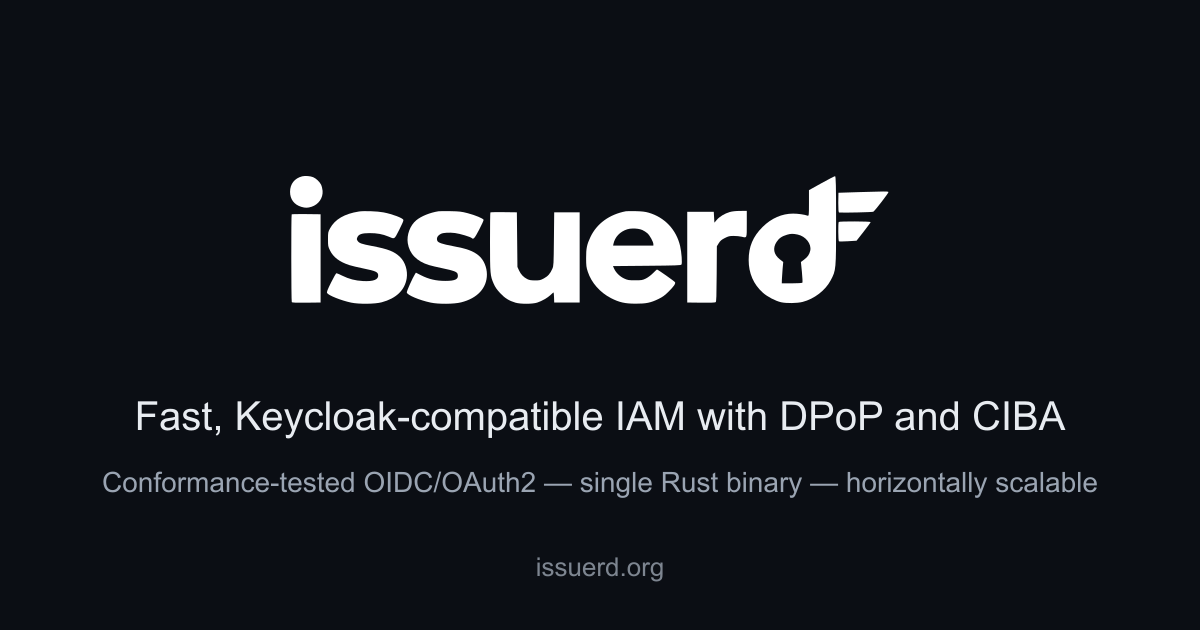
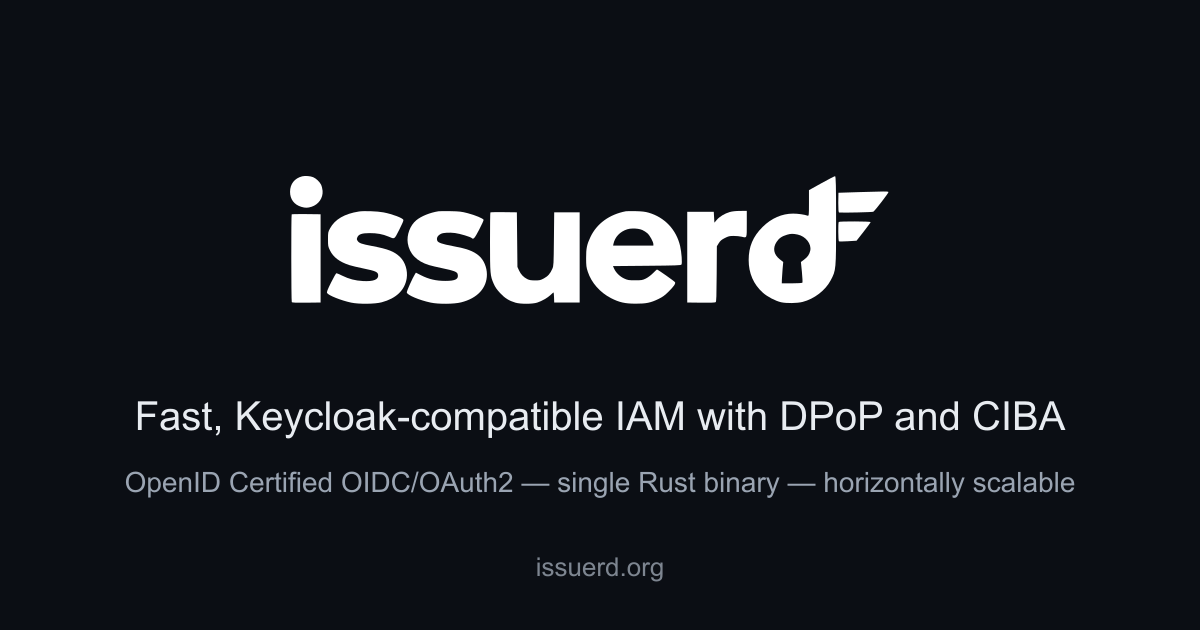
docs: announce certification and sync guides

Changed region(s): [[0.0925, 0.7238, 0.925, 0.7841]]

diff --git a/src/content/docs/identity-brokering.md b/src/content/docs/identity-brokering.md
@@ -24,7 +24,7 @@ A brokered login is an OIDC authorization-code flow nested inside another one: t
 1. The application sends the browser to Issuerd's authorization endpoint, `/realms/{realm}/protocol/openid-connect/auth`. Issuerd pauses a browser flow and either renders the login page — which shows a **"Continue with {display name}"** button for every enabled broker provider (fed by the unauthenticated `GET /realms/{realm}/login/context` endpoint) — or, when the request carries a `kc_idp_hint`, redirects straight to the provider (see [Sending users straight to a provider](#sending-users-straight-to-a-provider)).
 2. The button (or hint redirect) lands on `GET /realms/{realm}/broker/{alias}/login?flow={id}`. Issuerd verifies the paused flow and its correlation cookie, stores a single-use broker-state entry (nonce, PKCE verifier, flow id; 10-minute TTL) in the distributed cache, and 303-redirects the browser to the external IdP's authorization endpoint with `response_type=code`, the configured `clientId`, the broker callback URL as `redirect_uri`, the configured scopes, `state`, `nonce`, and an S256 PKCE challenge (enabled by default).
 3. The user authenticates at the IdP, which redirects back to the broker callback: `GET /realms/{realm}/broker/{alias}/endpoint?code=...&state=...`. A `POST` variant of the same path accepts IdPs that deliver the code via `response_mode=form_post`. In login mode the callback must arrive from the same browser that started the flow: the flow correlation cookie (`issuerd_flow_{flow-id}`) is verified before the `state` entry is touched — a callback without it is refused and consumes nothing. The `state` key is single-use and consumed once that check passes. (On TLS deployments the correlation cookie is `SameSite=None; Secure` so the cross-site form_post POST still carries it; plain-HTTP dev rigs keep `SameSite=Lax`, so form_post callbacks there arrive without the cookie and are refused — use the default query response mode on such rigs.)
-4. Issuerd exchanges the code server-to-server at the IdP's token endpoint (client authentication per `clientAuthMethod`, PKCE verifier attached). Broker HTTP calls have a 10-second timeout so a hung IdP cannot stall logins.
+4. Issuerd exchanges the code server-to-server at the IdP's token endpoint (client authentication per `clientAuthMethod`, PKCE verifier attached). Broker HTTP calls have a 10-second timeout so a hung IdP cannot stall logins. Every server-to-server IdP call (discovery, JWKS, token, userinfo, `test-connection`) dials only publicly routable addresses — on every redirect hop — and caps the response at 1 MiB; an IdP on a private/loopback address answers as "identity provider unreachable". For an IdP on the internal network (internal Keycloak/ADFS, Keycloak in Docker, a `localhost` dev IdP), the operator must set `[outbound_http] allow_private_identity_providers = true` — see [configuration.md](/configuration/#outbound_http).
 5. The identity is verified:
    - If the IdP returned an **`id_token`**, it is validated against the IdP's JWKS (signature, `exp`/`nbf` with 60 s leeway, `aud` must contain the configured `clientId`, `iss` must equal the configured/discovered issuer when one is set, `nonce` must match). Only asymmetric signatures (RSA/EC/EdDSA) are accepted — `HS*` id_tokens are rejected. The JWKS is cached per (realm, alias) for one hour; an unknown `kid` triggers one immediate refetch-and-retry. If the id_token carries no profile claims (`email`, `preferred_username`, `name` all absent — legal per OIDC Core §5.4) and a userinfo endpoint is available, Issuerd fetches userinfo and merges it; the signed id_token wins conflicts, and a `sub` mismatch rejects the login.
    - If there is **no `id_token`** (GitHub-style OAuth providers), Issuerd falls back to the userinfo endpoint with the access token.
@@ -144,11 +144,11 @@ Provider-specific behavior worth knowing:
 
 ## First broker login
 
-When no link exists for the external identity, `decide_first_broker_login` (in `crates/issuerd-core/src/broker.rs`) picks one of four paths from three inputs: whether the identity's email already belongs to a local user, the provider's `trustEmail` flag, and the IdP's `email_verified` claim.
+When no link exists for the external identity, `decide_first_broker_login` (in `crates/issuerd-core/src/broker.rs`) picks one of four paths from four inputs: whether the identity's email already belongs to a local user, the provider's `trustEmail` flag, the IdP's `email_verified` claim, and whether that local user's email is verified.
 
 | Situation | Decision | What happens |
 |-----------|----------|--------------|
-| Email conflict, `trustEmail=true`, IdP asserted `email_verified` | **Auto-link** | The external identity is silently linked to the existing local user and the login completes. |
+| Email conflict, `trustEmail=true`, IdP asserted `email_verified`, local account's email verified | **Auto-link** | The external identity is silently linked to the existing local user and the login completes. An unverified local address is only an assertion by whoever typed it in (self-registration, account console), so it never auto-links. |
 | Email conflict, otherwise | **Link-or-create page** | "Link your account": the user proves ownership of the existing local account by entering its password (linking then completes the login), or chooses "Create a separate account instead", which switches to the review-profile page. |
 | No conflict, `trustEmail=true` | **Auto-create** | A local user is created on the fly and the login completes with no page. |
 | No conflict, otherwise | **Review-profile page** | "Review your profile": username, email, first and last name pre-filled from the external identity, all editable. Submission validates the username (valid and unique) and the email (valid; duplicates rejected unless the realm allows duplicate emails). |
@@ -206,7 +206,7 @@ Example (as stored in the `mappers` config key):
 When mappers run is governed by `syncMode`:
 
 - `import` (default) — mappers run when a user is created and when a new link is established on an existing account (auto-link, link-via-password). Later logins leave the local record alone, so admin edits and user profile changes survive.
-- `force` — mappers additionally re-run on every brokered login, overwriting mapped attributes with the current claim values and re-granting mapped roles (removing the role out of band does not stick). Unmapped attributes and roles are never touched.
+- `force` — mappers additionally re-run on every brokered login, overwriting mapped attributes with the current claim values and re-granting mapped roles (removing the role out of band does not stick). When a role mapper's claim no longer matches, the role is revoked — but only if this provider's mappers granted it: the realm roles a mapper actually added (the user did not already hold them) are recorded in the user attribute `idp_mapped_roles.{alias}`, and only roles listed there are ever removed. A role the user already held when the mapper matched (assigned by an admin, or granted by another provider) is never revoked, and establishing a new link (auto-link, link-via-password) never revokes. Assigning a role locally after a mapper granted it does not change its provenance; to keep such a role, also remove its name from that attribute (admin API). Unmapped attributes and roles are never touched.
 
 ## Sending users straight to a provider
 
@@ -242,5 +242,5 @@ For general diagnostics (logs, events, metrics), see [troubleshooting.md](/troub
 - **Missing email or profile on the created user.** Code-flow id_tokens may legally carry only the subject (OIDC Core §5.4); Issuerd then fetches userinfo when an endpoint is configured/discovered. If the IdP has no userinfo endpoint, or the claims are absent there too, the identity has no email — the review page shows an empty email field and email-based auto-linking cannot happen. GitHub-specific: `/user` only returns `email` when the user's address is public.
 - **Logins failing after the provider rotated signing keys.** The JWKS is cached for one hour; an unknown `kid` already triggers one immediate refetch, so a single retry usually succeeds. Endpoint changes at the IdP (new authorization/token URLs) wait on the one-hour discovery cache — restart the node or flush the `broker_meta:*` cache keys to pick them up sooner.
 - **Clock skew.** External id_token `exp`/`nbf` are validated with 60 seconds of leeway; beyond that, validation fails and the user sees `identity_provider_error`. Keep NTP healthy on both Issuerd and the IdP.
-- **Accounts linked to the wrong user / unexpected auto-linking.** That is `trustEmail` doing exactly what it says: it auto-links any external identity whose (IdP-asserted) verified email matches a local account, with no password prompt. Only enable it for providers that truly verify addresses; otherwise users get the link-via-password page instead.
+- **Accounts linked to the wrong user / unexpected auto-linking.** That is `trustEmail` doing exactly what it says: it auto-links any external identity whose (IdP-asserted) verified email matches a local account whose email is verified too, with no password prompt. Only enable it for providers that truly verify addresses; otherwise users get the link-via-password page instead.
 - **Provider button missing from the login page.** The provider is disabled, its `provider_id` is a federation type (`ldap`/`kerberos`/`saml`), or the login page was opened outside an authorization flow (buttons render only mid-flow). Check `GET /realms/{realm}/login/context` — it lists exactly what the page will show.

diff --git a/src/content/docs/configuration.md b/src/content/docs/configuration.md
@@ -68,6 +68,7 @@ Configuration is assembled from three layers, later layers winning:
    | `ISSUERD_DPOP__NONCE__MODE=required` | `dpop.nonce.mode` |
    | `ISSUERD_SMTP__ENABLED=true` / `ISSUERD_SMTP__HOST=mail.example.com` | `smtp.enabled` / `smtp.host` |
    | `ISSUERD_PROXY__TRUST_X_FORWARDED_FOR=false` | `proxy.trust_x_forwarded_for` |
+   | `ISSUERD_BOOTSTRAP_ADMIN_PASSWORD=...` | `bootstrap_admin_password` |
 
    The shipped cluster stack uses this mechanism for per-node identity
    (`ISSUERD_CLUSTER__NODE_ID` in `docker-compose.cluster.yml`), so the same
@@ -104,8 +105,9 @@ issuer_url = "http://localhost:8080"
 
 The root `issuerd.toml` in the repository is a working example of this rig.
 With in-memory (or JSON-file) storage the `master` realm is bootstrapped
-automatically on first start (admin user `admin`/`admin`); see
-[getting-started.md](/getting-started/).
+automatically on first start (admin user `admin`, password from
+`bootstrap_admin_password` or randomly generated and printed once to stderr;
+the root rig pins `admin`/`admin`); see [getting-started.md](/getting-started/).
 
 **Production (PostgreSQL + Redis, TLS terminated at a proxy):**
 
@@ -137,6 +139,7 @@ define `master` in a provision file (see `examples/provision.demo.yaml` and
 | `issuer_url` | string (URL) | `"http://localhost:8080"` | Public base URL of this server. See the deep-dive below. |
 | `redis` | string (URL), optional | unset | Single Redis node, e.g. `"redis://localhost:6379"` (`rediss://` for TLS). Unset ⇒ in-process ephemeral cache. Overridden by `cluster.redis_nodes` when that list is non-empty. |
 | `provision` | path, optional | unset | Provision file (YAML/TOML/JSON by extension) applied **exactly once** at startup — a marker is claimed in storage before applying, so restarts and concurrent first boots skip it. Relative paths resolve against the working directory. A missing/unreadable file logs an error and boot continues. Format: [provisioning.md](/provisioning/). |
+| `bootstrap_admin_password` | string, optional | unset | Password of the `admin` user the in-memory/JSON-file first-boot bootstrap seeds into the `master` realm (only when no realm exists yet). Unset or empty ⇒ a random password is generated and printed **once** to stderr (not through the log output). Prefer the `ISSUERD_BOOTSTRAP_ADMIN_PASSWORD` environment variable over writing it into the file; environment values are parsed like TOML values, so quote one that would read as a number, boolean, or array (`ISSUERD_BOOTSTRAP_ADMIN_PASSWORD='"12345"'`) — unquoted, it fails the boot with `config load failed`. Ignored by PostgreSQL storage, which has no automatic bootstrap. |
 
 ### About `issuer_url`
 
@@ -555,13 +558,14 @@ inspection, an internal CA, a hermetic test rig) adds its roots here.
 |---|---|---|---|
 | `extra_ca_bundle` | path | unset | PEM file with additional root CA certificates (the file may hold several). **Additive** to the public roots. A missing file, unparseable content, or a bundle with zero valid certificates aborts the boot — fail closed, so a typo never silently falls back to public roots only. |
 | `allow_private_addresses` | bool | `false` | **Test rigs only.** Lifts the public-IP check of the SSRF-guarded outbound fetches (client `jwks_url` documents, pairwise `sector_identifier_uri` documents, JAR-by-reference `request_uri` objects), so they may dial private/loopback/link-local addresses — e.g. the hermetic OIDC conformance network. The https-only scheme check, the no-redirect policy, the body-size cap, and the timeout stay enforced. **Never enable in production**: that check is what keeps those attacker-influenced URLs from probing the internal network. |
+| `allow_private_identity_providers` | bool | `false` | **Breaking default — set it for an IdP on the internal network.** By default the identity-broker calls — discovery, JWKS, token, userinfo, and the admin `test-connection` probe — only dial publicly routable addresses: every address a hostname resolves to, and every redirect hop, is checked (an IdP address that is private, loopback, link-local, CGNAT or otherwise non-public is refused as "identity provider unreachable"), so an admin who can configure an identity provider (`manage-realm` in any realm, master included) cannot aim server-side requests at the internal network. `http` and `https` IdPs both work, and redirects between public hosts are followed. When an outbound proxy is set through `HTTP_PROXY`/`HTTPS_PROXY`/`ALL_PROXY`, the IdP host is resolved and checked locally before the proxied request (it must resolve on this host) and only same-host redirects are followed; without such variables, IdP calls do not use OS-configured proxies. Set `true` (internal Keycloak/ADFS, Keycloak in Docker, a `localhost` dev IdP) to restore the unrestricted behaviour — enabling it hands that reach back to every such admin. Responses are capped at 1 MiB in both modes. Independent of `allow_private_addresses`. |
 
 ```toml
 [outbound_http]
 extra_ca_bundle = "/etc/issuerd/corp-root-ca.pem"
 ```
 
-Environment equivalent: `ISSUERD_OUTBOUND_HTTP__EXTRA_CA_BUNDLE` (and `ISSUERD_OUTBOUND_HTTP__ALLOW_PRIVATE_ADDRESSES` for the test-rig flag).
+Environment equivalent: `ISSUERD_OUTBOUND_HTTP__EXTRA_CA_BUNDLE`, `ISSUERD_OUTBOUND_HTTP__ALLOW_PRIVATE_IDENTITY_PROVIDERS`, and `ISSUERD_OUTBOUND_HTTP__ALLOW_PRIVATE_ADDRESSES` for the test-rig flag.
 
 ## [themes]
 
@@ -700,6 +704,13 @@ attributes named `smtpServer.*`, set via the Admin API / console (see
 
 Note the attribute names are camelCase and the credential attribute is `user`,
 not `username`. Realms without these attributes use the global config.
+
+The global `username`/`password` are inherited only while the realm's
+effective `host`, `port`, `ssl` and `starttls` all equal the global values. A
+realm that points SMTP at another host, port or TLS mode must set its own
+`smtpServer.user`/`smtpServer.password`; otherwise it connects without
+authentication, so the operator's relay credentials never reach a
+realm-chosen server.
 
 ## Token signing algorithm
 

diff --git a/src/content/docs/troubleshooting.md b/src/content/docs/troubleshooting.md
@@ -71,7 +71,7 @@ Boot order (`src/main.rs` → `crates/issuerd-server/src/state.rs` → `crates/i
 | Exit with `invalid bind address: ...` | `bind` is not an IP literal (`bootstrap.rs` parses it as an IP so IPv6 works). `bind = "localhost"` fails. | Use `0.0.0.0`, `127.0.0.1`, `::1`, etc. To limit exposure, bind a specific interface IP. |
 | Exit with OS error `Address already in use` | Another process holds the port (default 8080 collides with many dev servers — including the reference Keycloak on 8081 in the integration stack). | `ss -ltnp \| grep :8080` to find the holder; change `port` or stop the other process. |
 | ERROR `Another Issuerd instance is already running`, exit code 1 | The single-instance guard (`src/main.rs`, lock name `issuerd-instance`) found a live daemon **on the same host**. It does not interfere with containers or other hosts ([CLUSTERING.md](/clustering/)). | Stop the old daemon (check for a zombie `issuerd` process), or run the second instance in a container/VM. |
-| Daemon is up but there is no `master` realm / admin login fails (PostgreSQL) | The automatic master-realm bootstrap (admin/admin) runs **only** for the in-memory and JSON-file backends, and only when zero realms exist (`state.rs`). With PostgreSQL, provisioning must create `master` (as `examples/provision.demo.yaml` does). | Provision the master realm — see [provisioning.md](/provisioning/) and [getting-started.md](/getting-started/). |
+| Daemon is up but there is no `master` realm / admin login fails (PostgreSQL) | The automatic master-realm bootstrap (user `admin`; password from `bootstrap_admin_password`, otherwise generated and printed once to stderr) runs **only** for the in-memory and JSON-file backends, and only when zero realms exist (`state.rs`). With PostgreSQL, provisioning must create `master` (as `examples/provision.demo.yaml` does). | Provision the master realm — see [provisioning.md](/provisioning/) and [getting-started.md](/getting-started/). |
 | ERROR `failed to bootstrap master realm` or ERROR `provision failed` at boot | These are **non-fatal by design**: the daemon keeps starting (`state.rs`). The underlying error is carried as a structured `error` field on the log record, not interpolated into the message. A half-provisioned system is the usual result. | Fix the underlying error (storage, YAML syntax) and re-apply: `issuerd provision -c issuerd.toml --file provision.yaml`. Note provisioning is exactly-once per marker name — see "Re-runs and idempotency" in [provisioning.md](/provisioning/). |
 
 ## Login and browser flow problems
@@ -119,7 +119,7 @@ Background: email is **disabled by default** — until `[smtp] enabled = true`, 
 | Verify-email / reset-password / execute-actions-email fails with `SMTP is not configured: set [smtp] enabled = true (and host/port/from) before enabling email flows` | Working as designed: an email flow is enabled (realm `verify_email`, reset-credentials, the email-code login authenticator) but SMTP is off. | Configure `[smtp]` (below) or turn the email flow off. |
 | Errors `smtp send: ...`, `smtp relay config ...`, or `smtp starttls config ...` in the log; no mail arrives | Wrong host/port/credentials, or the server requires a different TLS mode. SMTP connections time out after 10 seconds. Credentials are sent only when **both** `username` and `password` are set. At DEBUG, each attempt logs `sending email` with the effective host/port. | Probe the server with the raw SMTP recipe below, then align `[smtp]` with what the probe shows. |
 | `starttls` vs `ssl` confusion — connection hangs or is refused | The flags select different transports (`email.rs`): `ssl = true` → implicit TLS from the first byte (typical port 465); `starttls = true` → plaintext connect then STARTTLS upgrade (typical port 587); both false → **plaintext** (a local dev sink only — never for production). | Match the flag to your MTA's listener. Do not set both; `ssl` wins if you do. |
-| Per-realm overrides ignored | Realm attributes must be named exactly `smtpServer.host`, `smtpServer.port`, `smtpServer.from`, `smtpServer.fromDisplayName`, `smtpServer.replyTo`, `smtpServer.starttls`, `smtpServer.ssl`, `smtpServer.user`, `smtpServer.password`. Each key overrides independently; unset keys fall back to the global `[smtp]`. Flag values are the literal string `"true"`; an unparsable `smtpServer.port` is ignored. **`enabled` is global-only** — a realm cannot turn email on by itself. | Fix the attribute names/values via the realm's attributes (admin console or `PUT /admin/realms/{realm}`). |
+| Per-realm overrides ignored | Realm attributes must be named exactly `smtpServer.host`, `smtpServer.port`, `smtpServer.from`, `smtpServer.fromDisplayName`, `smtpServer.replyTo`, `smtpServer.starttls`, `smtpServer.ssl`, `smtpServer.user`, `smtpServer.password`. Each key overrides independently; unset keys fall back to the global `[smtp]`, except that the global `username`/`password` are dropped when the realm's effective host, port, `ssl` or `starttls` differs from the global one (set `smtpServer.user`/`smtpServer.password` for such a realm). Flag values are the literal string `"true"`; an unparsable `smtpServer.port` is ignored. **`enabled` is global-only** — a realm cannot turn email on by itself. | Fix the attribute names/values via the realm's attributes (admin console or `PUT /admin/realms/{realm}`). |
 | "Link expired" on verify/reset links | Verify-email links live 24 hours; reset-credentials links 15 minutes (`crates/issuerd-server/src/email.rs`). Reset links are also single-use. | Request a fresh email. |
 
 **Testing with a local sink (dev/staging).** Point `[smtp]` at any SMTP sink (e.g. Mailpit on `127.0.0.1:1025`, no auth/TLS):

diff --git a/src/content/docs/administration.md b/src/content/docs/administration.md
@@ -110,10 +110,11 @@ The endpoint verifies the password against the realm's `admin-cli` client, creat
 ### Token properties
 
 - The token is a **bearer token** for all `/admin/...` endpoints: `Authorization: Bearer <access_token>`.
+- It must be issued to `admin-cli`, or to a custom client whose attributes contain `admin_api_access = "true"`. Only a caller with `manage-realm` may set or change that attribute through the Admin API (the endpoint still requires `manage-clients`); open dynamic registration strips it. Tokens from ordinary relying parties are rejected even when they carry admin roles.
 - Lifetime is the issuing realm's `access_token_lifespan` — **300 seconds by default** (`expires_in` in the response tells you the effective value). Scripted workflows should re-fetch the token per run rather than cache it; interactive API users can raise the lifetime on the realm (Tokens tab, or `access_token_lifespan` in the realm representation — that representation mixes snake_case defaults with selective camelCase renames, and this field keeps the snake_case name).
 - Admin sessions are real user sessions: they appear under Sessions and are revoked when the session is deleted, when the user logs out, or when `notBefore` is set.
 
-> **Warning:** The demo credentials (`admin`/`admin` on the in-memory/json bootstrap and the Docker demo stack) are well-known. Change the master admin password before the server is reachable by anyone else — see [getting started](/getting-started/#first-hardening-steps) and [security](/security/).
+> **Warning:** The demo credentials (`admin`/`admin` on the root `issuerd.toml` dev rig and the Docker demo stack) are well-known. Without `bootstrap_admin_password` the in-memory/json bootstrap generates a random admin password and prints it once to stderr. Change the master admin password before the server is reachable by anyone else — see [getting started](/getting-started/#first-hardening-steps) and [security](/security/).
 
 ## The admin console
 
@@ -160,7 +161,7 @@ The client list (`GET .../clients`) leads to the client editor with tabs:
 - **Client Scopes** — scope assignments (`.../default-client-scopes`, `.../optional-client-scopes`).
 - **Scope Mappings** — role scope mappings (`.../clients/{id}/scope-mappings/...`).
 
-Enabling **service accounts** provisions the backing `service-account-{client_id}` user immediately; `GET .../clients/{id}/service-account-user` returns it (creating it lazily if needed) so you can assign roles to it. Client create/update/delete requires `manage-clients`.
+Enabling **service accounts** provisions the backing user immediately; `GET .../clients/{id}/service-account-user` returns it (creating it lazily if needed) so you can assign roles to it. Resolution uses a deterministic client-UUID-bound user id and a reserved back-link attribute, never the `service-account-{client_id}` username alone; if that conventional name is occupied, the linked account uses `service-account-{client_uuid}` instead. Once the linked account exists, an unlinked legacy account occupying the conventional name is disabled rather than adopted, and its roles are not copied. Review that account and reassign any intended roles to the linked account once after upgrading. The Admin API does not allow an unlinked `service-account-*` account to be enabled. Client create/update/delete requires `manage-clients`.
 
 `clients-initial-access` endpoints (`GET/POST/DELETE .../clients-initial-access[/{id}]`) mint the initial-access tokens consumed by dynamic client registration — see [client integration](/client-integration/).
 
@@ -471,7 +472,7 @@ Strategy: `FAIL` (default — first conflict aborts with **409** and previously 
 curl -s -X POST "$IC/admin/realms/acme/export" -H "Authorization: Bearer $TOKEN" > acme-export.json
 ```
 
-The export document contains the realm fields plus users, clients, groups, roles, identity providers, and client scopes — with **no secret material** (user credentials absent, client secrets omitted, IdP `clientSecret` masked as `**********`). It is a backup/inspection artifact, not a round-trip import format; for lifecycle backups see [backup and upgrade](/backup-and-upgrade/).
+The export document contains the realm fields plus users, clients, groups, roles, identity providers, and client scopes — with **no secret material** (user credentials absent, client secrets omitted, IdP `clientSecret` masked as `**********`, `bindCredential` too for callers without `manage-realm`). It is a backup/inspection artifact, not a round-trip import format; for lifecycle backups see [backup and upgrade](/backup-and-upgrade/).
 
 ### Read and update the events configuration
 

diff --git a/src/content/docs/security.md b/src/content/docs/security.md
@@ -336,7 +336,19 @@ clears the marker. Enforcement covers the browser login flow (`auth-username-pas
 token endpoint's password grant, and the device-verification endpoint (the
 `POST /realms/{realm}/device` verify handler runs the same lockout check, failure recording, and
 reset on success, keyed per username+IP — `crates/issuerd-server/src/routes/oidc.rs`); realms without
-the toggle skip failure tracking entirely.
+the toggle skip password failure tracking entirely.
+
+**One-time codes (TOTP) are always throttled**, whatever the toggle. Every code check — the
+browser OTP stage, the password grant's `totp` parameter, and device verification — first reserves
+an attempt from one per-user budget tracked under the source slot `otp` in place of the IP
+(`login-failure:{realm}:{username}:otp` / `login-lockout:{realm}:{username}:otp`). The attempt is
+counted before the code is checked, so parallel submissions cannot outrun the threshold. With the
+toggle on, the realm's settings above apply; with it off, the defaults (5 failures, 60 s lockout
+growing to 900 s) apply. While locked, no code is checked — a correct one is refused like a wrong
+one. After a lockout expires one more code is checked, and a wrong one re-arms a longer lockout, as on
+the password path. A correct code clears the budget. A successful password check does not, since it
+resets only its own username+IP pair. The attack-detection API lists these entries with the IP
+`otp` and the "clear user" call removes them.
 
 ### Cluster-wide counters
 
@@ -429,11 +441,16 @@ email address, mails a 6-digit single-use code, and verifies it. Operational att
 | `email_code_length` | `6` | Code length in digits (max 32) |
 | `email_code_ttl_secs` | `300` | Code validity (cache-entry TTL) |
 
-Codes are single-use and burn after 5 wrong submissions; at most 5 codes are mailed per entry
-lifetime. Unknown or disabled accounts get the same challenge without a mail, so the endpoint
-does not leak account existence. SMTP must be configured (`[smtp]` or per-realm `smtpServer.*`
-attributes — see [configuration.md](/configuration/)). In these realms the "no password
-credential ⇒ UPDATE_PASSWORD" auto-rule stays silent by design.
+Codes are single-use and burn after 5 wrong submissions, counted atomically per issued code;
+concurrent correct submissions cannot both succeed, and a stale flow cannot burn or overwrite a
+reissued code. Wrong attempts do not extend the code's original TTL.
+At most 5 codes are mailed per user per fixed window of one code TTL, and burning a code does not
+reset that budget. Per-source limits allow at most 4 sends and 20 verification submissions in the
+corresponding windows, leaving a code and attempts available from another source. Unknown or
+disabled accounts get the same challenge without a mail, so the endpoint does not leak account
+existence. SMTP must be configured (`[smtp]` or per-realm `smtpServer.*` attributes — see
+[configuration.md](/configuration/)). In these realms the "no password credential ⇒
+UPDATE_PASSWORD" auto-rule stays silent by design.
 
 ### Resetting a user's MFA (recovery)
 
@@ -596,11 +613,14 @@ per-realm secret generated automatically into the realm attributes at realm crea
 Admin tokens are bound to the realm that issued them (Keycloak model): tokens issued by `master`
 administer every realm, other tokens only their own; realm creation/listing is master-only
 (`crates/issuerd-admin-api/src/auth.rs`). The automatic bootstrap of the master realm with the
-well-known `admin`/`admin` user runs **only** for the in-memory/json-file backends; on PostgreSQL
-the provision file defines the master realm (see `examples/provision.demo.yaml`).
+`admin` user runs **only** for the in-memory/json-file backends; its password is
+`bootstrap_admin_password` (`ISSUERD_BOOTSTRAP_ADMIN_PASSWORD`) or, when unset, a random one
+printed once to stderr. On PostgreSQL the provision file defines the master realm (see
+`examples/provision.demo.yaml`).
 
-- The root `docker-compose.yml` demo stack (and any in-memory/json dev rig) seeds `admin`/`admin`
-  — **never expose such a rig**. It exists for evaluation only.
+- The root `docker-compose.yml` demo stack (and the root `issuerd.toml` dev rig, which pins
+  `bootstrap_admin_password = "admin"`) seeds `admin`/`admin` — **never expose such a rig**. It
+  exists for evaluation only.
 - In production, create **named per-person admin users** with the roles they need, then disable or
   delete any shared bootstrap admin. Shared accounts destroy the value of the admin audit trail,
   which resolves `auth_username` per event.

diff --git a/src/content/docs/getting-started.md b/src/content/docs/getting-started.md
@@ -113,7 +113,7 @@ cd webclientsrc && npm ci && npm run generate-api && npm run build && cd ..
 cargo run --bin issuerd -- daemon
 ```
 
-The server listens on `http://localhost:8080` and seeds the `master` realm (admin/admin) plus the `myrealm` demo content (alice/changeme, sample clients). For a production-style artifact, `cargo build --bin issuerd --release` produces the standalone binary at `target/release/issuerd`.
+The server listens on `http://localhost:8080` and seeds the `master` realm (admin/admin — the root `issuerd.toml` pins `bootstrap_admin_password = "admin"` for this loopback-only rig) plus the `myrealm` demo content (alice/changeme, sample clients). For a production-style artifact, `cargo build --bin issuerd --release` produces the standalone binary at `target/release/issuerd`.
 
 The checked-in root `issuerd.toml` is a zero-dependency development rig:
 
@@ -122,6 +122,7 @@ bind = "127.0.0.1"
 port = 8080
 issuer_url = "http://localhost:8080"
 provision = "examples/provision.example.yaml"   # adds myrealm, alice, sample clients
+bootstrap_admin_password = "admin"              # dev rig only; unset ⇒ random, printed once
 # no [storage] section  → in-memory backend (state is lost on restart)
 # no [tls] section      → plain HTTP
 ```
@@ -175,7 +176,7 @@ Knowing what the server does on its first start saves confusion later. All of th
 
 If (and only if) the storage backend is `in-memory` or `json-file` **and** no realms exist yet, the server creates the `master` realm with:
 
-- user `admin` / `admin` (Argon2id-hashed),
+- user `admin` (Argon2id-hashed) whose password is `bootstrap_admin_password` (config key, or the `ISSUERD_BOOTSTRAP_ADMIN_PASSWORD` environment variable); when that is unset or empty a random password is generated and printed **once** to stderr — read it from the console (or `docker logs`) on first boot,
 - the realm-management roles `manage-realm`, `view-realm`, `manage-users`, `view-users`, `manage-clients`, `view-clients`, `impersonation`, all assigned to `admin`,
 - the built-in public clients `admin-cli` and `account-console`, with redirect URIs derived from the configured `issuer_url`.
 
@@ -243,7 +244,7 @@ curl -s -X POST http://localhost:8080/realms/myrealm/protocol/openid-connect/tok
   -d "scope=openid profile"
 ```
 
-**Against any fresh install** (public client `admin-cli` in the auto-created `master` realm — no secret needed; this is the same request shape the E2E test suite uses):
+**Against any fresh install** (public client `admin-cli` in the auto-created `master` realm — no secret needed; this is the same request shape the E2E test suite uses; replace `password=admin` with the generated bootstrap password unless you pinned `admin`):
 
 ```bash
 curl -s -X POST http://localhost:8080/realms/master/protocol/openid-connect/token \
@@ -286,7 +287,7 @@ Typical failure causes: a wrong password yields `401 {"error":"invalid_grant"}`;
 
 Before the server leaves your laptop, in rough order of urgency (details in [security.md](/security/) and [deployment.md](/deployment/)):
 
-1. **Change the `admin` password** — admin console → Users → `admin` → Credentials, or sign into `http://localhost:8080/realms/master/account` as `admin`. The `admin`/`admin` default is public knowledge.
+1. **Change the `admin` password** — admin console → Users → `admin` → Credentials, or sign into `http://localhost:8080/realms/master/account` as `admin`. The `admin`/`admin` credentials of the dev rig and the demo stacks are public knowledge, and a generated bootstrap password has been printed to the console.
 2. **Remove or re-secret the demo content** — `alice`/`changeme` and `my-app-secret` are checked into the repository. Delete the demo realm/clients or provision your own instead.
 3. **Set `issuer_url` to the public base URL** of the deployment (e.g. `https://id.example.com`). It is baked into the `iss` claim and the discovery document, so it must match how clients reach the server *before* they integrate; changing it later changes the issuer of all realms.
 4. **Turn on TLS** — either the built-in `[tls]` section (`cert_path`/`key_path`) or a TLS-terminating reverse proxy in front; plain HTTP is for local evaluation only.

diff --git a/src/content/docs/client-integration.md b/src/content/docs/client-integration.md
@@ -134,9 +134,12 @@ The fields that matter for protocol behavior:
 | `default_scopes` / `optional_scopes` | Every scope a client may request must be assigned here; both the authorization and token endpoints reject any other `scope` value with `invalid_scope`. Exception: `openid` is the OIDC protocol marker, not a client scope — it is always allowed (Keycloak parity; this is what lets a DCR-registered client without an explicit scope list run OIDC flows). Access tokens always include the mappers of the default-assigned client scopes (Keycloak's "default scopes always apply" rule). Request `offline_access` only appears if assigned (typically as optional). |
 | `consent_required` | `true` shows the user a consent screen before the first grant. |
 | `full_scope_allowed` | `true` (default): tokens contain the user's full effective role set. `false`: token roles are intersected with the client's (and its granted scopes') scope mappings. |
-| `service_accounts_enabled` | Backs the `client_credentials` grant with the dedicated `service-account-{client_id}` user — its role mappings flow into tokens and `sub` is that user's id. Without it, the grant still works but issues a synthetic token (`sub` = the client_id, no role claims). |
+| `service_accounts_enabled` | Backs the `client_credentials` grant with a client-UUID-linked service-account user — its role mappings flow into tokens and `sub` is that user's deterministic id. Without it, the grant still works but issues a synthetic token (`sub` = the client_id, no role claims). |
+| attributes: `admin_api_access` | `"true"` allows tokens issued to this client to call the Admin API (roles are still required). Only `manage-realm` may set it through the Admin API; open dynamic registration strips it. `admin-cli` is enabled by default, other clients are not. |
 | `bearer_only` | Informational marker for a client that only consumes tokens (no login flows). Stored and exposed (including in the adapter-config download), but not enforced — no runtime check rejects login flows for a bearer-only client. |
 | `enabled` | Disabling a client is the administrative containment action: disabled clients are rejected at every endpoint, including the token endpoint, even with correct credentials. |
+
+Service-account resolution never adopts an existing user by username. If an unlinked legacy account occupies the conventional `service-account-{client_id}` name, it is disabled once the client-UUID-linked account exists, and its roles are not copied. After upgrading, review that account and reassign any intended roles to the linked account.
 
 > **Warning (CORS, SPA operators):** unlike Keycloak, `web_origins` does **not** emit CORS headers. Browser-based apps calling the token or userinfo endpoints cross-origin need their origin in the **server-level** `[cors] allowed_origins` list ([configuration.md](/configuration/)), which is empty — fully locked down — by default. A SPA that works against Keycloak but fails preflight against Issuerd is usually missing this.
 

diff --git a/src/content/docs/deployment.md b/src/content/docs/deployment.md
@@ -28,7 +28,7 @@ With no `[storage]` section the daemon uses the in-memory backend; `[storage.jso
 The baseline production topology is one Issuerd node with:
 
 - **PostgreSQL** for all durable state (`[storage.postgres]`). Signing keys live in the shared `signing_keys` table, so tokens and sessions survive restarts and redeploys. Schema migrations run automatically at boot.
-- **Redis** for transient state (`redis = "redis://…"`). Redis is ephemeral by design: wiping it loses in-flight login flows (users retry) and blocklist entries for tokens that would expire anyway; issued JWTs and sessions are unaffected. The demo and cluster compose stacks run it with `--maxmemory 256mb --maxmemory-policy allkeys-lru` and no persistence; the integration stack enables `--appendonly yes` with a volume.
+- **Redis** for transient state (`redis = "redis://…"`). The shipped demo and cluster stacks use `--maxmemory 256mb --maxmemory-policy noeviction`, so revocation, rotation, replay, and lockout markers are never silently evicted under memory pressure; security-critical writes fail closed instead. The integration stack enables `--appendonly yes` with a volume. A Redis wipe still drops revocation entries and in-flight flows, so use the durable realm `notBefore` cutoff when revocation must survive it.
 
 > **Warning:** With PostgreSQL storage the automatic master-realm bootstrap does **not** run. A fresh deployment must define the `master` realm in a provision file (as `examples/provision.demo.yaml` does) or apply one with `issuerd provision --file …` — otherwise there is no admin user. See [provisioning.md](/provisioning/).
 
@@ -78,7 +78,7 @@ docker compose down -v         # stop AND wipe the volume (next start re-seeds)
 |---|---|---|---|
 | `issuerd` | `issuerd-demo-server` | Published Docker Hub image (`issuerd/issuerd:latest`); healthcheck polls `/ready`; starts only after PostgreSQL and Redis are healthy | `http://localhost:8080` |
 | `postgres` | `issuerd-demo-postgres` | PostgreSQL 15 Alpine, state in the `postgres-data` volume | internal only (no host port) |
-| `redis` | `issuerd-demo-redis` | Redis 7 Alpine, `--maxmemory 256mb --maxmemory-policy allkeys-lru`, no persistence | internal only (no host port) |
+| `redis` | `issuerd-demo-redis` | Redis 7 Alpine, `--maxmemory 256mb --maxmemory-policy noeviction`, no persistence | internal only (no host port) |
 
 The server container mounts `examples/issuerd.demo.toml` → `/etc/issuerd/issuerd.toml` and `examples/provision.demo.yaml` → `/etc/issuerd/provision.yaml`. On first start against an empty database the provision file runs exactly once and seeds the `master` realm (`admin`/`admin`), the `myrealm` demo realm (`alice`/`changeme`, groups `developers`/`ops`), the console clients (`admin-cli`, `account-console`), and the sample clients `my-app` (confidential, secret `my-app-secret`) and `public-app` (public, PKCE).
 

diff --git a/src/content/docs/backup-and-upgrade.md b/src/content/docs/backup-and-upgrade.md
@@ -54,6 +54,7 @@ All Redis content is short-lived runtime state. The key prefixes below are defin
 | `dpop_jti:{realm}:{jti}` | DPoP proof single-use markers | Proof acceptance window |
 | `dpop-nonce:{realm}:{nonce}` | Server-provided DPoP nonces (opt-in `[dpop.nonce]`; single-use, consumed on verification) | `[dpop.nonce] lifetime_secs` (default 30 s) |
 | `email-code:{realm}:{user_id}` | Passwordless email-login codes | Code lifetime |
+| `email-code-attempts:{realm}:{user_id}:{nonce}`, `email-code-sends:{realm}:{user_id}`, `email-code-attempts-ip:{realm}:{user_id}:{ip}`, `email-code-sends-ip:{realm}:{user_id}:{ip}` | Atomic email-code verification and send counters (per code, user, and source IP) | 5 × code TTL (attempts) / code TTL (sends), fixed at creation |
 | `webauthn-reg:{realm}:{user_id}`, `totp-enroll:{realm}:{user_id}` | In-flight passkey registration ceremonies and unverified TOTP enrollment secrets | Ceremony/enrollment lifetime |
 | `broker_state:`, `broker_fbl:` | Identity-brokering SSO state and first-broker-login flows | 600 s |
 | `broker_meta:`, `broker_jwks:` | Cached external-IdP discovery documents and JWKS | Cache lifetime |
@@ -71,7 +72,7 @@ All Redis content is short-lived runtime state. The key prefixes below are defin
 - Login-failure counters — brute-force lockouts reset.
 - Registration access tokens of dynamically registered clients — those clients can no longer read/update/delete their own registration through the RFC 7592 endpoint.
 
-**What a Redis wipe does NOT lose:** realms, users, clients, SSO sessions (refresh tokens keep working), issued JWTs (validated statelessly), signing keys, audit events. The demo stack exploits this by running Redis with `--maxmemory-policy allkeys-lru` and no persistence (`docker-compose.yml`).
+**What a Redis wipe does NOT lose:** realms, users, clients, SSO sessions (refresh tokens keep working), issued JWTs (validated statelessly), signing keys, audit events. The demo stack runs Redis with `--maxmemory-policy noeviction` and no persistence (`docker-compose.yml`), so these entries cannot be evicted selectively under memory pressure; security-critical writes fail closed when the cap is reached.
 
 > **Warning:** because single-token revocation entries are lost on a Redis wipe, use the realm-wide `notBefore` cutoff when a revocation must survive a cache flush — set it with `PUT /admin/realms/{realm}` (tokens issued before the cutoff are rejected). The cutoff itself is durable realm state in PostgreSQL.
 

diff --git a/src/content/docs/provisioning.md b/src/content/docs/provisioning.md
@@ -464,7 +464,9 @@ The automatic master-realm bootstrap (`bootstrap_master_realm` in
 `crates/issuerd-server/src/state.rs`) runs at daemon startup **only** when the storage
 backend is in-memory or JSON-file **and** no realms exist yet. It creates:
 
-- the `master` realm with user `admin` / password `admin`,
+- the `master` realm with user `admin`, password `bootstrap_admin_password` from the
+  server config (or `ISSUERD_BOOTSTRAP_ADMIN_PASSWORD`) — unset or empty ⇒ a random
+  password printed once to stderr,
 - the realm-management roles (`manage-realm`, `view-realm`, `manage-users`,
   `view-users`, `manage-clients`, `view-clients`, `impersonation`) assigned to
   `admin`,
